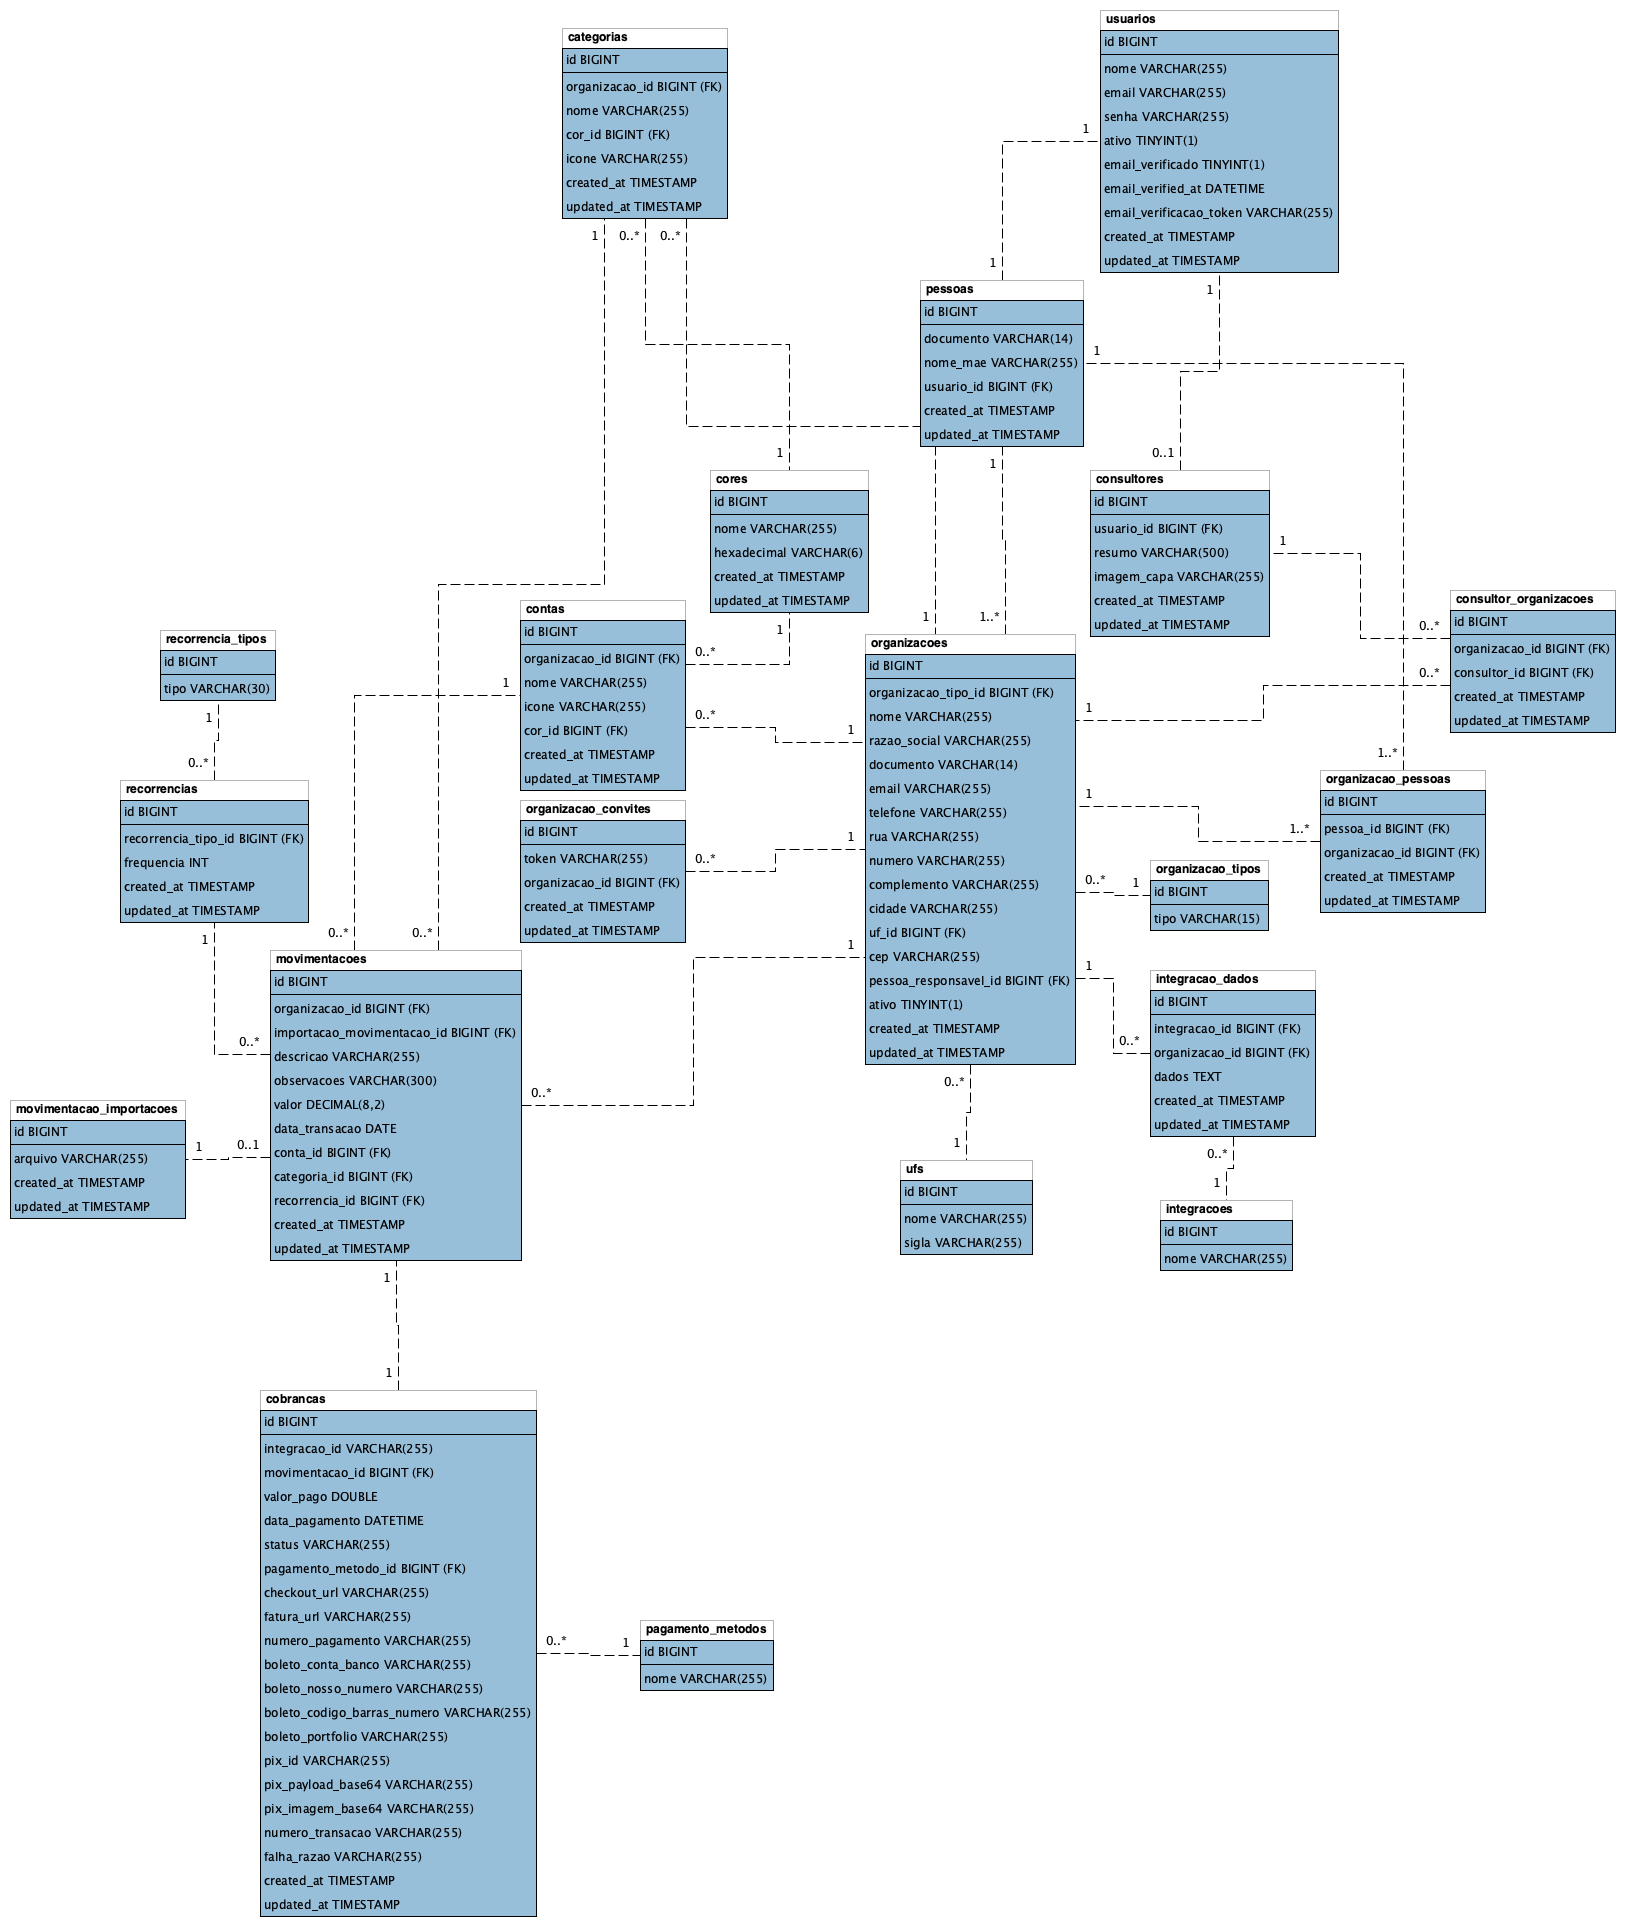
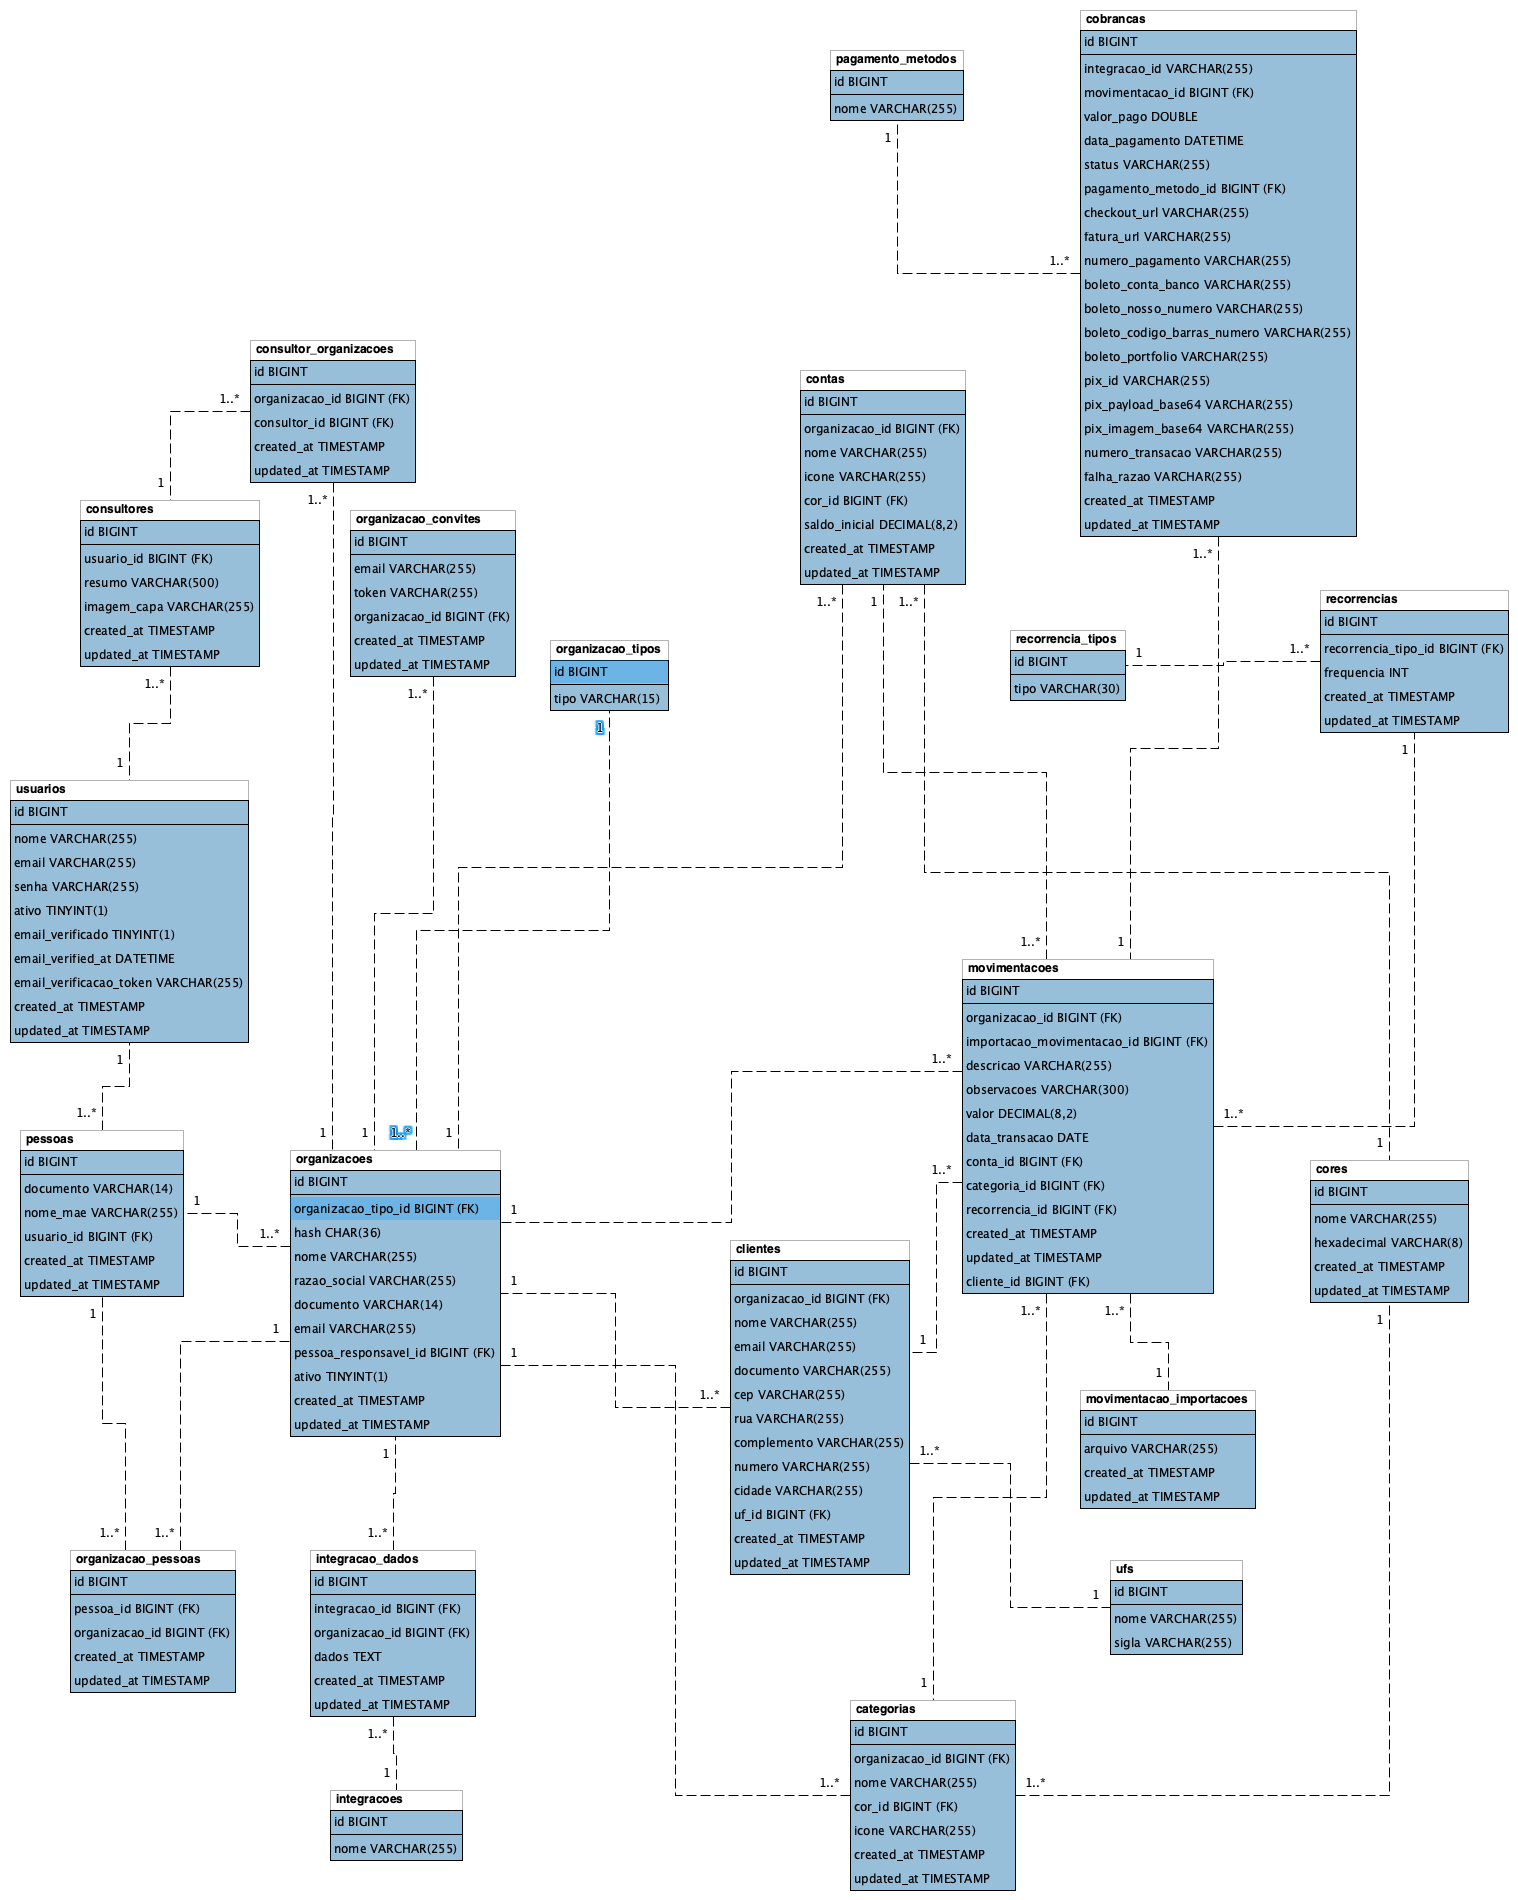
fix: DER

diff --git a/database/migrations/2021_11_15_121049_drop_columns_organizacoes_table.php b/database/migrations/2021_11_15_121049_drop_columns_organizacoes_table.php
@@ -1,0 +1,45 @@
+<?php
+
+use Illuminate\Database\Migrations\Migration;
+use Illuminate\Database\Schema\Blueprint;
+use Illuminate\Support\Facades\Schema;
+
+class DropColumnsOrganizacoesTable extends Migration
+{
+    /**
+     * Run the migrations.
+     *
+     * @return void
+     */
+    public function up()
+    {
+        Schema::table('organizacoes', function (Blueprint $table) {
+            $table->dropColumn('telefone');
+            $table->dropColumn('rua');
+            $table->dropColumn('numero');
+            $table->dropColumn('complemento');
+            $table->dropColumn('cidade');
+            $table->dropForeign(['uf_id']);
+            $table->dropColumn('uf_id');
+            $table->dropColumn('cep');
+        });
+    }
+
+    /**
+     * Reverse the migrations.
+     *
+     * @return void
+     */
+    public function down()
+    {
+        Schema::table('organizacoes', function (Blueprint $table) {
+            $table->string('telefone')->nullable()->default(NULL);
+            $table->string('rua')->nullable()->default(NULL);
+            $table->string('numero')->nullable()->default(NULL);
+            $table->string('complemento')->nullable()->default(NULL);
+            $table->string('cidade')->nullable()->default(NULL);
+            $table->foreignId('uf_id')->nullable()->default(NULL)->constrained();
+            $table->string('cep')->nullable()->default(NULL);
+        });
+    }
+}

diff --git a/database/migrations/2021_11_15_113038_drop_column_saldo_contas_table.php b/database/migrations/2021_11_15_113038_drop_column_saldo_contas_table.php
@@ -1,0 +1,32 @@
+<?php
+
+use Illuminate\Database\Migrations\Migration;
+use Illuminate\Database\Schema\Blueprint;
+use Illuminate\Support\Facades\Schema;
+
+class DropColumnSaldoContasTable extends Migration
+{
+    /**
+     * Run the migrations.
+     *
+     * @return void
+     */
+    public function up()
+    {
+        Schema::table('contas', function (Blueprint $table) {
+            $table->dropColumn('saldo');
+        });
+    }
+
+    /**
+     * Reverse the migrations.
+     *
+     * @return void
+     */
+    public function down()
+    {
+        Schema::table('contas', function (Blueprint $table) {
+            $table->decimal('saldo');
+        });
+    }
+}
